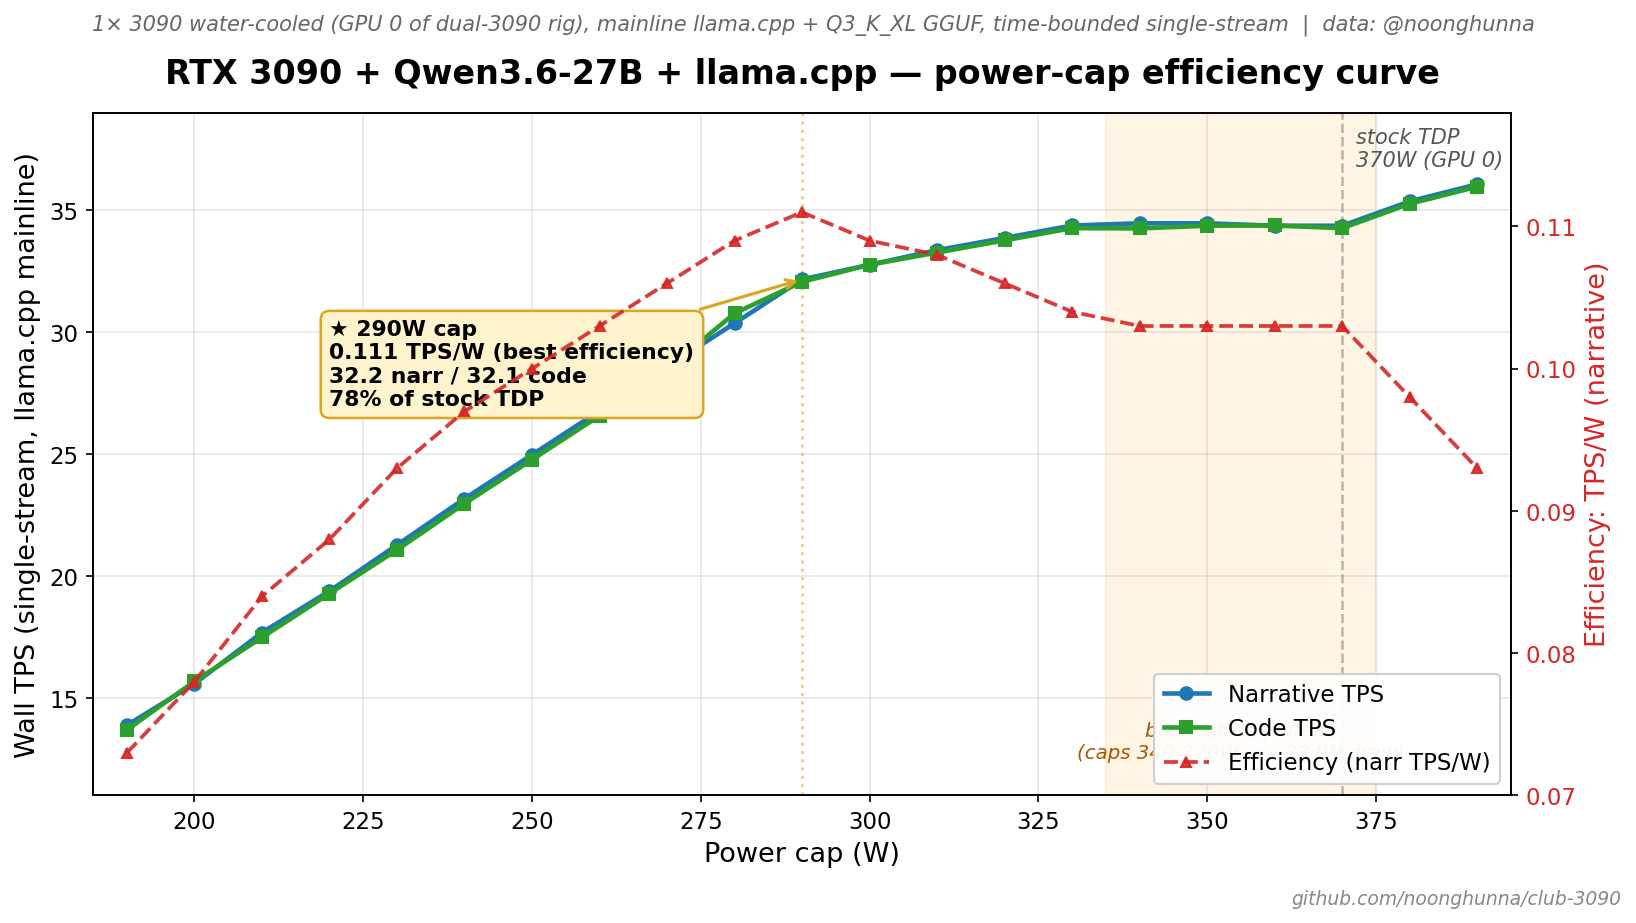
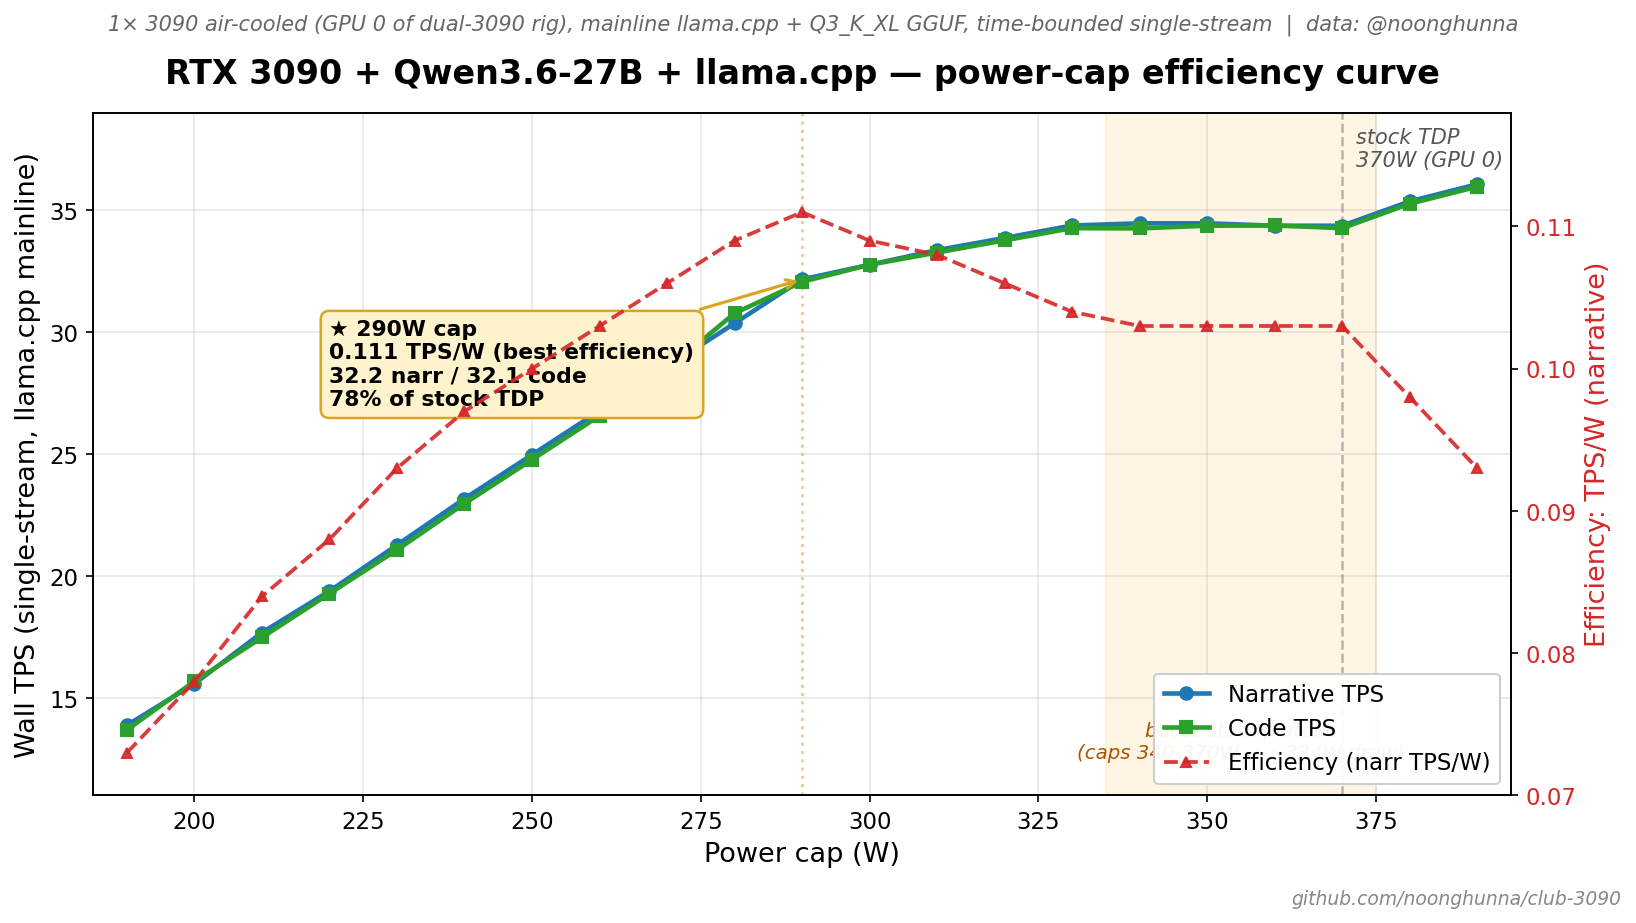
docs(hardware): correct 3090 cooling class — air, not water
@user's rig is air-cooled (peak 76°C at 390W is air-typical;
water would be ~50-60°C). Earlier rows + chart caption were mislabeled
as water-cooled — that was an inference error on my part.

Updates:
- HARDWARE.md table rows: 3090 cooling water → air (3 rows)
- Chart caption: water-cooled → air-cooled, added GPU temp note
- Chart script subtitle/comments: water-cooled → air-cooled
- Refreshed PNG with corrected subtitle

Cross-rig context: we now have TWO air-cooled 1× 3090 anchor points
(@user MTP build vs @user mainline) instead of one
air + one water. The "cooling-class delta" cross-rig comparison angle
is moot here — the build-class delta (MTP vs no-MTP) is what differs.
syangsao's 3-cap sparse data remains the only water-cooled 3090 anchor.

Changed region(s): [[0.0623, 0.0, 0.9352, 0.0607]]

diff --git a/docs/img/power-cap-3090-qwen36.py b/docs/img/power-cap-3090-qwen36.py
@@ -1,6 +1,6 @@
-"""Generate 3090 power-cap efficiency chart from @noonghunna's water-cooled rig.
+"""Generate 3090 power-cap efficiency chart from @noonghunna's air-cooled rig.
 
-Source data: 2026-05-07 sweep, dual-3090 rig (GPU 0 used), water-cooled.
+Source data: 2026-05-07 sweep, dual-3090 rig (GPU 0 used), air-cooled.
 Engine: mainline llama.cpp (ghcr.io/ggml-org/llama.cpp:server-cuda) +
 Qwen3.6-27B-UD-Q3_K_XL.gguf, single-stream decode-single.
 
@@ -116,7 +116,7 @@ ax1.set_title(
 # Subtitle
 fig.text(
     0.5, 0.92,
-    "1× 3090 water-cooled (GPU 0 of dual-3090 rig), mainline llama.cpp + Q3_K_XL GGUF, "
+    "1× 3090 air-cooled (GPU 0 of dual-3090 rig), mainline llama.cpp + Q3_K_XL GGUF, "
     "time-bounded single-stream  |  data: @noonghunna",
     ha="center", fontsize=10, color="#666",
     style="italic",

diff --git a/docs/HARDWARE.md b/docs/HARDWARE.md
@@ -114,9 +114,9 @@ How `decode-single` is timed (the new default since 2026-05-07):
 | 3090 | water | llama.cpp default | Qwen3.6 27B Q3_K_XL | 230W | 25.15 | 24.86 | 0.109 | [@syangsao #58](https://github.com/noonghunna/club-3090/issues/58#issuecomment-4388766174) |
 | 3090 | water | llama.cpp default | Qwen3.6 27B Q3_K_XL | **330W** ⭐ | 36.35 | 36.26 | 0.110 | [@syangsao #58](https://github.com/noonghunna/club-3090/issues/58#issuecomment-4388766174) |
 | 3090 | water | llama.cpp default | Qwen3.6 27B Q3_K_XL | 388W (stock) | 38.23 | 37.97 | 0.098 | [@syangsao #58](https://github.com/noonghunna/club-3090/issues/58#issuecomment-4388766174) |
-| 3090 | water | llama.cpp default | Qwen3.6 27B Q3_K_XL | **290W** ⭐ | 32.08 | 31.74 | **0.111** | @noonghunna (this rig, 18-cap 10W sweep) |
-| 3090 | water | llama.cpp default | Qwen3.6 27B Q3_K_XL | 370W (stock) | 34.46 | 34.20 | 0.103 | same |
-| 3090 | water | llama.cpp default | Qwen3.6 27B Q3_K_XL | 390W (max) | 35.84 | 35.66 | 0.092 | same |
+| 3090 | air | llama.cpp default | Qwen3.6 27B Q3_K_XL | **290W** ⭐ | 32.16 | 32.06 | **0.111** | @noonghunna (this rig, 21-cap 10W sweep, time-bounded bench) |
+| 3090 | air | llama.cpp default | Qwen3.6 27B Q3_K_XL | 370W (stock) | 34.36 | 34.26 | 0.103 | same |
+| 3090 | air | llama.cpp default | Qwen3.6 27B Q3_K_XL | 390W (max) | 36.06 | 35.96 | 0.093 | same |
 | 4090 | air | llama.cpp default | Qwen3.6 27B Q3_K_XL | **260W** ⭐ | 48.41 | 48.43 | 0.186 | [@laurimyllari #62](https://github.com/noonghunna/club-3090/discussions/62#discussioncomment-16832066) |
 | 4090 | air | llama.cpp default | Qwen3.6 27B Q3_K_XL | 280W | 49.54 | 49.10 | 0.177 | [@laurimyllari #62](https://github.com/noonghunna/club-3090/discussions/62#discussioncomment-16832066) |
 | 4090 | air | llama.cpp default | Qwen3.6 27B Q3_K_XL | 300W | 50.26 | 50.02 | 0.168 | [@laurimyllari #62](https://github.com/noonghunna/club-3090/discussions/62#discussioncomment-16832066) |
@@ -143,7 +143,7 @@ For rigs where we have full 10W-resolution sweeps, the curves below show TPS + T
 
 ![3090 + Qwen3.6-27B + llama.cpp power-cap efficiency curve (noonghunna)](img/power-cap-3090-qwen36.png)
 
-*3090 water-cooled + Qwen3.6-27B Q3_K_XL + mainline llama.cpp, 21-cap sweep 190-390W via time-bounded streaming bench (10s/direction). **Total wall: 8m12s.** Yellow callout: 290W sweet spot (0.111 TPS/W) at **78% of stock 370W TDP**. Orange-shaded zone 340-370W: firmware boost-state plateau where caps 340/350/360/370W all draw identical ~334W actual. At 380W cap, draw escapes to 361W; at 390W cap, draw reaches 388W — so the apparent "ceiling" at 334W isn't a hardware limit, it's a discrete boost-state behavior. Source script: [`img/power-cap-3090-qwen36.py`](img/power-cap-3090-qwen36.py).*
+*3090 air-cooled + Qwen3.6-27B Q3_K_XL + mainline llama.cpp, 21-cap sweep 190-390W via time-bounded streaming bench (10s/direction). **Total wall: 8m12s.** Yellow callout: 290W sweet spot (0.111 TPS/W) at **78% of stock 370W TDP**. Orange-shaded zone 340-370W: firmware boost-state plateau where caps 340/350/360/370W all draw identical ~334W actual. At 380W cap, draw escapes to 361W; at 390W cap, draw reaches 388W — so the apparent "ceiling" at 334W isn't a hardware limit, it's a discrete boost-state behavior. GPU temp peaked at 76°C at 390W cap (air-cooled, no thermal throttle within the 0-100% util envelope). Source script: [`img/power-cap-3090-qwen36.py`](img/power-cap-3090-qwen36.py).*
 
 **Cross-rig pattern**: efficiency knee falls at **~60-85% of stock TDP** across consumer Ampere/Ada — start there for a new card class and zoom in. Ada (4090) is proportionally more aggressive than Ampere (3090) — 4090 cuts 33% of stock TDP for ~7% TPS loss; 3090 cuts 15% of stock for ~5% loss.
 